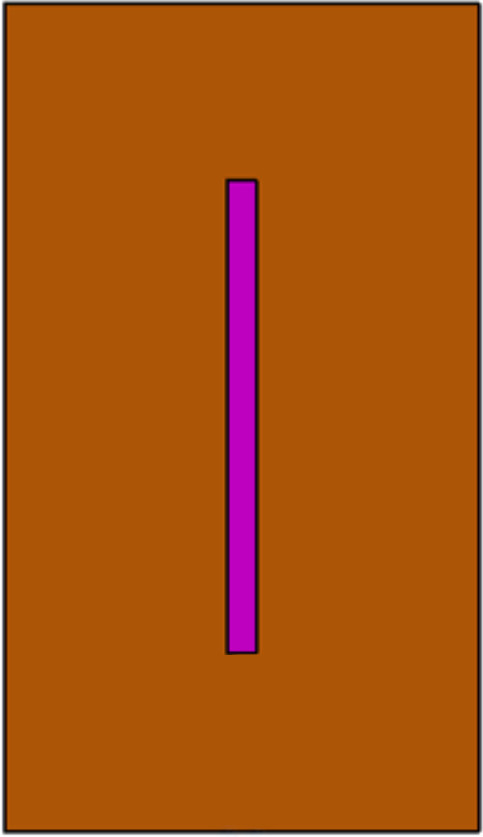
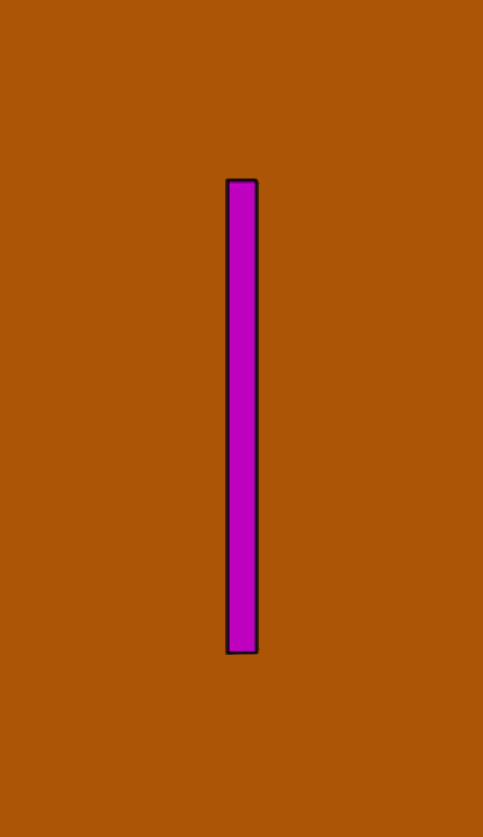
Enable loading dimensions from json

Changed region(s): [[0.0, 0.0, 1.0, 1.0]]

diff --git a/scripts/pose_estimator_node.py b/scripts/pose_estimator_node.py
@@ -1,7 +1,9 @@
 #!/usr/bin/env python3
 
+import json
 import os
 from pathlib import Path
+import glob
 
 import cv2
 import message_filters
@@ -110,11 +112,11 @@ class BasicPoseEstimator:
             lxtyrxby = None
 
         rot, trans = self.pose_estimator.compute_pose(
-            img, "Bootlegger", img_msg.header.frame_id, lxtyrxby=lxtyrxby, debug=True
+            img, template, img_msg.header.frame_id, lxtyrxby=lxtyrxby, debug=True
         )
         if rot is not None and trans is not None and trans[2] > 0:
             self.publish_tf(
-                rot, trans, img_msg.header.frame_id, "Bootlegger", img_msg.header.stamp
+                rot, trans, img_msg.header.frame_id, template, img_msg.header.stamp
             )
 
     def publish_tf(self, rot, trans, frame_id, child_frame_id, stamp):
@@ -153,14 +155,42 @@ if __name__ == "__main__":
     )
     visualization_topic = rospy.get_param("~visualization_topic", "/visualization")
     template = rospy.get_param("~template", "Bootlegger")
+
+
+    # Accept either png or jpeg files
+    templates_dir = os.path.abspath(Path(RosPack().get_path("image_matching"))/"templates")
+    possible_templates = glob.glob(os.path.join(templates_dir, f"{template}.*"))
+    if not possible_templates:
+        rospy.logwarn_once(f"No template found for {template} in {templates_dir}")
+
     template_path = rospy.get_param(
         "~template_path",
-        os.path.abspath(
-            Path(RosPack().get_path("image_matching"))
-            / "templates"
-            / f"{template}.jpeg"
-        ),
+        possible_templates[0] if possible_templates else "FILE_NOT_FOUND.png",
     )
+    print(f"Using template {template_path}")
+    rospy.loginfo(f"Using template {template_path}")
+
+    # Retrieve template dimensions from json file
+    templates = json.loads(open(os.path.join(templates_dir, "templates.json")).read())
+    template_filename = template_path.split("/")[-1]
+    if template_filename in templates.keys():
+        saved_template_width = templates[template_filename][0]
+        saved_template_height = templates[template_filename][1]
+    else:
+        saved_template_width = None
+        saved_template_height = None
+
+    if not rospy.get_param("~use_default_dim", True):
+        template_width = rospy.get_param("~template_width", saved_template_width)
+        template_height = rospy.get_param("~template_height", saved_template_height)
+    else:
+        template_width = saved_template_width
+        template_height = saved_template_height
+    if not template_height or not template_width:
+        rospy.logerr("use_default_dim set to true but no template dimensions found")
+        exit(1)
+    rospy.loginfo(f"Using template dimensions {template_width}x{template_height}")
+
     detected_objects_topic = rospy.get_param("~detected_objects_topic", None)
 
     matcher = rospy.get_param("~matcher", "superglue")
@@ -191,6 +221,11 @@ if __name__ == "__main__":
         image_match_producer = get_keypoints_match_producer(
             "fast", "bf", {"debug": True}, {"debug": True}
         )
+    elif matcher == "orb_bf":
+        image_match_producer = get_keypoints_match_producer(
+            "orb", "bf", {"debug": True}, {"debug": True}
+    )
+
 
     pose_estimator = BasicPoseEstimator(
         camera_topic,
@@ -200,10 +235,22 @@ if __name__ == "__main__":
         template,
         template_path,
         (
-            0.6096,
-            1.2192,
+            template_width,
+            template_height,
         ),  # TODO: get the template dimensions from launch file or service or json file
         detected_objects_topic,
     )
+
+    print("warming up")
+    pose_estimator.image_match_producer.add_image(
+        (np.random.rand(720, 640, 3) * 255).astype(np.uint8)
+    )
+    for _ in range(10):
+        pose_estimator.image_match_producer.add_image(
+            (np.random.rand(720, 640, 3) * 255).astype(np.uint8)
+    )
+        pose_estimator.image_match_producer.compute_matches()
+    pose_estimator.image_match_producer.clear_buffer()
+    print("warmed")
 
     rospy.spin()

diff --git a/src/pose_estimator/pose_estimator.py b/src/pose_estimator/pose_estimator.py
@@ -9,6 +9,7 @@ from feature_matcher.keypoints_match_producer import (
 )
 from feature_matcher.tools import (
     create_show_image,
+    create_save_image,
     plot_matches,
 )
 from pose_estimator.PinholeCamera import PinholeCamera
@@ -58,6 +59,10 @@ class PoseEstimator:
             img, template, debug, num_keypoints=20, lxtyrxby=lxtyrxby, logger=logger
         )
 
+        if not keypoints1 is None:
+            print(f"keypoints1: {len(keypoints1)}, keypoints2: {len(keypoints2)}")
+        else:
+            print("no keypoints found")
         if keypoints1 is None or len(keypoints1) < 4:
             logging.warning(
                 f"Not enough matches to compute pose. Found {0 if keypoints1 is None else len(keypoints1)} matches."
@@ -83,10 +88,13 @@ class PoseEstimator:
             reprojectionError=2.0,
             flags=cv2.SOLVEPNP_ITERATIVE,
         )
+        print(f"t_z: {t.squeeze()[2]}, mask: {mask}")
         t_z = t.squeeze()[2]
         if t_z < 0 or t_z > 100 or mask is None or len(mask) < self.min_inliers:
             logging.info("Not enough inliers.")
             return None, None
+
+        print("Passed inliers check.")
 
         if debug:
             _x = source_dimensions[0] / 2